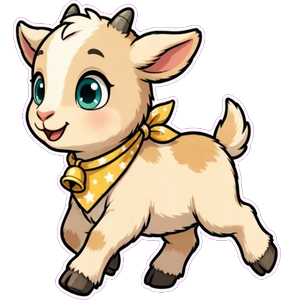
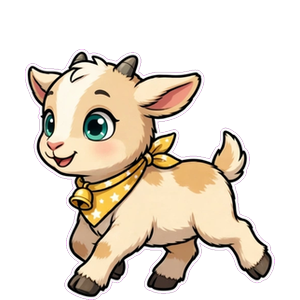
Familia pulida: giro correcto, sprites sin deformar, pañuelo del mini estable, arrastre, espacio personal y mini saltando por los iconos

diff --git a/index.html b/index.html
@@ -1349,10 +1349,10 @@ const P2_ENC={
  "mini-bf":[["mini",["¡ba-ba-BAIFOOO!","ba-ba-BAIFOOO!"]],["bf",["Despacio, campeón, que te conozco.","Easy, champ. I know you."]]],
  "her-mini":[["her",["Mini… ¡carrera hasta la papelera! ¡Ya!","Mini… race you to the bin! Go!"]],["mini",["¡vale! …¿por qué estoy boca abajo?","okay! …why am I upside down?"]]]};
 const P2_CFG={
- hermanita:{carpeta:"hermanita",caja:96,vel:54,corre:136,duermeP:.07,sigue:false,tropieza:0,frases:HER_F},
- mini:{carpeta:"mini",caja:66,vel:36,corre:98,duermeP:.23,sigue:true,tropieza:.0038,frases:MINI_F}};
+ hermanita:{carpeta:"hermanita",caja:96,vel:54,corre:136,duermeP:.07,sigue:false,tropieza:0,frases:HER_F,invertida:true,cuadros:[0,1,2,3]},
+ mini:{carpeta:"mini",caja:76,vel:36,corre:98,duermeP:.23,sigue:true,tropieza:.0038,frases:MINI_F,invertida:true,cuadros:[0,1,2,1],iconos:true}};
 const W={}; const p2Cool={};
-function p2Nuevo(id){ return {id:id,cfg:P2_CFG[id],x:innerWidth*.5,pies:innerHeight-34,dir:1,vy:0,estado:"quieto",tEstado:2,tFrame:0,frame:0,corre:0,fotograma:"",presente:false,rot:0,escala:1,ultimo:0,solo:0,rodando:0,tropiezaLuego:false,saltaLuego:false,bocTimer:null,el:null,img:null,boc:null,zzz:null} }
+function p2Nuevo(id){ return {id:id,cfg:P2_CFG[id],x:innerWidth*.5,pies:innerHeight-34,dir:1,vy:0,estado:"quieto",tEstado:2,tFrame:0,frame:0,corre:0,fotograma:"",presente:false,rot:0,escala:1,ultimo:0,solo:0,rodando:0,tropiezaLuego:false,saltaLuego:false,vx:0,drag:null,modoIconos:0,bocTimer:null,el:null,img:null,boc:null,zzz:null} }
 function p2Frame(w,n){ if(w.fotograma===n)return; w.fotograma=n; if(w.img)w.img.src="img/"+w.cfg.carpeta+"/"+n+".png" }
 function p2Decir(w,txt,ms){ if(!w.boc)return; w.boc.textContent=txt; w.boc.classList.add("visible"); clearTimeout(w.bocTimer); w.bocTimer=setTimeout(()=>w.boc.classList.remove("visible"),ms||3200) }
 function p2Frase(w){ const f=w.cfg.frases[Math.floor(Math.random()*w.cfg.frases.length)]; return LANG==="es"?f[0]:f[1] }
@@ -1373,7 +1373,7 @@ function p2Invocar(w,v){
   BAIFO_ON=true; localStorage.setItem("tidelabs_baifo","on");
   if(w.presente){ p2Decir(w,p2Frase(w)); p2Bleat(w);
     if(w.id==="mini"&&Math.random()<.4){ w.estado="tropiezo"; w.tEstado=.75 }
-    else if(bfApoyo.call(null)||true){ w.vy=-380; w.estado="cae" }
+    else { const ap=bfSoportes().filter(s=>w.x>s.x1&&w.x<s.x2&&Math.abs(s.y-w.pies)<3)[0]; if(ap){ w.vy=-380; w.estado="cae" } }
     return }
   w.presente=true;
   const variante=v!==undefined?v:Math.floor(Math.random()*2);
@@ -1387,6 +1387,8 @@ function p2Invocar(w,v){
 function p2Decide(w){
   if(w.estado==="encuentro"){ if(w.tropiezaLuego){ w.tropiezaLuego=false; w.estado="tropiezo"; w.tEstado=.75; return } if(w.saltaLuego){ w.saltaLuego=false; w.vy=-400; w.estado="cae"; return } }
   if(w.estado==="duerme"){ w.estado="paseo"; w.tEstado=4+Math.random()*4; return }
+  if(w.cfg.iconos&&w.modoIconos>0){ w.estado="quieto"; w.tEstado=.6; return }
+  if(w.cfg.iconos&&w.modoIconos<=0&&Math.abs(w.pies-(innerHeight-34))<3&&Math.random()<.3){ w.modoIconos=15; w.estado="quieto"; w.tEstado=.4; if(Math.random()<.5)p2Decir(w,LANG==="es"?"¡a saltar por los iconos!":"icon hopping time!"); return }
   const adulto=w.cfg.sigue?p2AdultoCerca(w):null;
   if(adulto&&Math.abs(adulto.x-w.x)>240){ w.estado="paseo"; w.dir=adulto.x>w.x?1:-1; w.tEstado=3.5; if(Math.random()<.35)p2Decir(w,LANG==="es"?"¡esperadmeeee!":"waaait for meee!"); return }
   const r=Math.random(), d=w.cfg.duermeP;
@@ -1398,7 +1400,7 @@ function p2Decide(w){
 }
 function p2Pinta(w){
   w.el.style.transform="translate("+(w.x-w.cfg.caja/2)+"px, "+(w.pies-w.cfg.caja)+"px) rotate("+w.rot+"deg) scale("+w.escala+")";
-  w.el.classList.toggle("mira-izq",w.dir<0);
+  w.el.classList.toggle("mira-izq",w.cfg.invertida?(w.dir>0):(w.dir<0));
   w.zzz.classList.toggle("visible",w.estado==="duerme");
 }
 function p2Cosita(w,otro,clave){
@@ -1415,6 +1417,11 @@ function p2Cosita(w,otro,clave){
   if(clave.indexOf("mini")>=0&&W.mini&&W.mini.presente)W.mini.tropiezaLuego=true;
   if(clave.indexOf("her")>=0&&W.hermanita&&W.hermanita.presente)W.hermanita.saltaLuego=true;
 }
+function p2Espacio(){
+  ["hermanita","mini"].forEach(id=>{ const w=W[id]; if(!w||!w.presente||w.drag||w.estado==="cae"||w.estado==="encuentro"||w.estado==="tropiezo"||w.estado==="duerme")return;
+    const otros=[]; if(bf.presente)otros.push({x:bf.x,pies:bf.pies}); ["hermanita","mini"].forEach(o=>{ if(o!==id&&W[o]&&W[o].presente)otros.push({x:W[o].x,pies:W[o].pies}) });
+    otros.forEach(e=>{ if(Math.abs(e.pies-w.pies)<20&&Math.abs(e.x-w.x)<46){ w.dir=w.x<e.x?-1:1; w.estado="paseo"; w.tEstado=Math.max(w.tEstado,.7) } }) });
+}
 function p2Tick(ts){
   requestAnimationFrame(p2Tick);
   const desk=$("#desktop"); if(!desk)return;
@@ -1423,6 +1430,7 @@ function p2Tick(ts){
     const w=W[id]; if(!w||!w.el)return;
     const dt=Math.min(.05,w.ultimo?(ts-w.ultimo)/1000:0); w.ultimo=ts;
     const visible=BAIFO_ON&&w.presente&&deskVisible;
+    if(w.drag){ w.el.hidden=false; w.ultimo=ts; return }
     w.el.hidden=!visible; if(!visible)return;
     w.tEstado-=dt;
     if(w.estado!=="cae"&&w.x<-160||w.x>innerWidth+160){ if(w.estado!=="cae"){ w.presente=false; p2Invocar(w,1); return } }
@@ -1432,30 +1440,34 @@ function p2Tick(ts){
       p2Pinta(w); return }
     if(w.estado==="tropiezo"){ w.rot=Math.min(360,w.rot+480*dt); p2Frame(w,"cae"); if(w.tEstado<=0){ w.rot=0; w.estado="quieto"; w.tEstado=1.2 } p2Pinta(w); return }
     const apoyos=bfSoportes();
+    if(w.cfg.iconos&&w.modoIconos>0){ w.modoIconos-=dt; $$(".icono").forEach(ic=>{ const r=ic.getBoundingClientRect(); if(r.width>30)apoyos.push({y:r.top,x1:r.left+4,x2:r.right-4,win:"icono"}) }) }
     const apoyo=apoyos.filter(s=>w.x>s.x1&&w.x<s.x2&&Math.abs(s.y-w.pies)<3)[0];
     if(w.estado!=="cae"&&!apoyo){ w.estado="cae"; w.vy=0 }
     if(w.estado==="cae"){
-      const antes=w.pies; w.vy+=1500*dt; w.pies+=w.vy*dt;
+      const antes=w.pies; w.vy+=1500*dt; w.pies+=w.vy*dt; if(w.vx)w.x+=w.vx*dt;
       const cruza=apoyos.filter(s=>w.x>s.x1&&w.x<s.x2&&s.y>=antes-1&&s.y<=w.pies);
-      if(cruza.length&&w.vy>0){ const s=cruza.reduce((a,b)=>a.y<b.y?a:b); w.pies=s.y; w.vy=0; w.estado="quieto"; w.tEstado=1.1+Math.random()*1.4 }
+      if(cruza.length&&w.vy>0){ const s=cruza.reduce((a,b)=>a.y<b.y?a:b); w.pies=s.y; w.vy=0; w.vx=0; w.estado="quieto"; w.tEstado=s.win==="icono"?1.7+Math.random()*1.3:1.1+Math.random()*1.4; if(s.win==="icono"&&Math.random()<.4)p2Decir(w,LANG==="es"?"¡estoy en un icono! ¡ilumino desde aquí!":"I am on an icon! lighting up from up here!") }
       if(w.pies>innerHeight-34){ w.pies=innerHeight-34; w.vy=0; w.estado="quieto"; w.tEstado=1.4 }
       p2Frame(w,"cae");
     } else if(w.estado==="paseo"){
       w.corre=Math.max(0,w.corre-dt);
       w.x+=w.dir*(w.corre>0?w.cfg.corre:w.cfg.vel)*dt;
       w.tFrame-=dt;
-      if(w.tFrame<=0){ w.tFrame=w.corre>0?.11:.17; w.frame=(w.frame+1)%4; p2Frame(w,"paseo-"+w.frame) }
+      if(w.tFrame<=0){ w.tFrame=w.corre>0?.11:.17; w.frame=(w.frame+1)%w.cfg.cuadros.length; p2Frame(w,"paseo-"+w.cfg.cuadros[w.frame]) }
       if(w.corre<=0){ if(w.x<40){ w.x=40; w.dir=1 } if(w.x>innerWidth-40){ w.x=innerWidth-40; w.dir=-1 } }
       if(w.id==="hermanita"&&apoyo&&Math.random()<dt*.45){ w.vy=-300; w.estado="cae" }
       if(w.id==="mini"&&apoyo&&Math.random()<w.cfg.tropieza){ w.estado="tropiezo"; w.tEstado=.75; if(Math.random()<.4)p2Decir(w,LANG==="es"?"¡no ha pasado nada!":"nothing happened!") }
       if(w.tEstado<=0)p2Decide(w);
     } else {
       p2Frame(w,w.estado==="pasta"?"pasta":w.estado==="duerme"?"duerme":"quieto");
+      if(w.cfg.iconos&&w.modoIconos>0&&apoyo&&w.tEstado<=0){ const ics=$$(".icono").map(ic=>{ const r=ic.getBoundingClientRect(); return {cx:r.left+r.width/2,top:r.top} }).filter(o=>o.top<w.pies-14||Math.abs(o.cx-w.x)>50);
+        if(ics.length){ ics.sort((a,b)=>Math.abs(a.cx-w.x)-Math.abs(b.cx-w.x)); const t=ics[0]; w.dir=t.cx>w.x?1:-1; const distY=Math.max(30,(w.pies-t.top)+44); const vy=-Math.sqrt(2*1500*distY); const tv=2*Math.abs(vy)/1500; w.vx=Math.max(-340,Math.min(340,(t.cx-w.x)/tv)); w.vy=vy; w.estado="cae" } }
       if(w.id==="mini"){ const ad=p2AdultoCerca(w); if(!ad){ w.solo+=dt; if(w.solo>20&&w.estado!=="duerme"){ w.solo=8; p2Decir(w,LANG==="es"?"¡baaa! ¿dónde estáis?":"baaa! where are you?"); p2Bleat(w) } } else w.solo=0 }
-      if(w.tEstado<=0)p2Decide(w);
+      if(w.tEstado<=0&&w.estado!=="cae")p2Decide(w);
     }
     p2Pinta(w);
   });
+  p2Espacio();
   // encuentros: las cositas
   const her=W.hermanita, mini=W.mini;
   if(her&&her.presente&&bf.presente&&her.estado!=="cae"&&bf.estado!=="cae"&&Math.abs(her.pies-bf.pies)<26&&Math.abs(her.x-bf.x)<76)p2Cosita(her,{esBf:true,x:bf.x},"her-bf");
@@ -1474,9 +1486,13 @@ function p2Init(){
     w.el=el; w.img=el.querySelector("img"); w.boc=el.querySelector(".p2-boc"); w.zzz=el.querySelector(".p2-zzz");
     w.img.src="img/"+w.cfg.carpeta+"/quieto.png";
     ["paseo-0","paseo-1","paseo-2","paseo-3","quieto","pasta","duerme","cae"].forEach(n=>{ const i=new Image(); i.src="img/"+w.cfg.carpeta+"/"+n+".png" });
-    el.addEventListener("click",()=>{ p2Decir(w,p2Frase(w)); p2Bleat(w);
-      if(w.id==="mini"&&Math.random()<.45){ w.estado="tropiezo"; w.tEstado=.75 }
-      else { w.vy=-360; w.estado="cae" } });
+    el.addEventListener("pointerdown",e=>{ w.drag={x:e.clientX,y:e.clientY,t:Date.now(),max:0}; el.setPointerCapture(e.pointerId); p2Frame(w,"cae"); e.preventDefault() });
+    el.addEventListener("pointermove",e=>{ if(!w.drag)return; const d=Math.hypot(e.clientX-w.drag.x,e.clientY-w.drag.y); w.drag.max=Math.max(w.drag.max,d);
+      if(w.drag.max>7){ w.x=e.clientX; w.pies=e.clientY+w.cfg.caja*.43; w.vx=0; w.rot=0; p2Pinta(w) } });
+    el.addEventListener("pointerup",()=>{ if(!w.drag)return; const fueClick=w.drag.max<7&&(Date.now()-w.drag.t)<500; w.drag=null;
+      if(fueClick){ p2Decir(w,p2Frase(w)); p2Bleat(w);
+        if(w.id==="mini"&&Math.random()<.45){ w.estado="tropiezo"; w.tEstado=.75 } else { w.vy=-360; w.estado="cae" } }
+      else { w.vy=0; w.estado="cae" } });
   });
   requestAnimationFrame(p2Tick);
 }

diff --git a/sw.js b/sw.js
@@ -1,5 +1,5 @@
 /* TIDElabs Desk — service worker: la casa funciona sin conexion */
-const CACHE = "tidelabs-desk-v11";
+const CACHE = "tidelabs-desk-v13";
 self.addEventListener("install", e => { self.skipWaiting(); });
 self.addEventListener("activate", e => {
   e.waitUntil(caches.keys().then(ks => Promise.all(ks.filter(k => k !== CACHE).map(k => caches.delete(k)))).then(() => self.clients.claim()));
